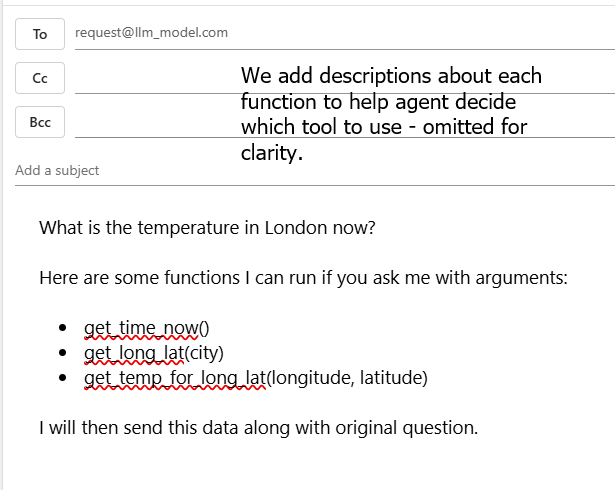
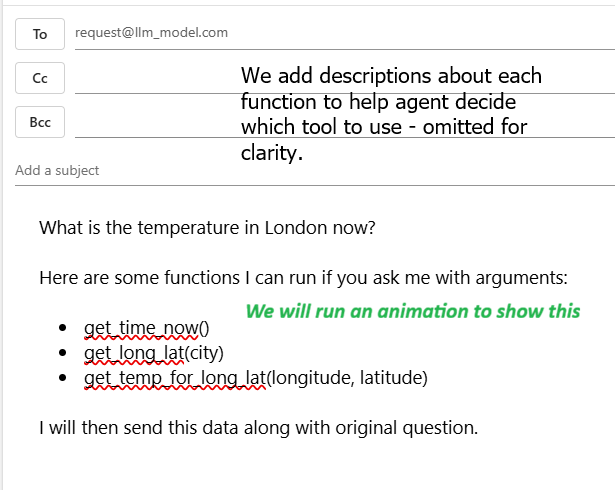
add to TALK

Changed region(s): [[0.4016, 0.6122, 0.9577, 0.6735]]

diff --git a/TALK.html b/TALK.html
@@ -735,7 +735,7 @@
     <span class="eyebrow">BrightonDev.ai Meetup</span>
     <h1>AI Agents<br><span class="grad">Demystified</span> and Simplified</h1>
     <p class="sub">A BrightonDev.ai Meetup talk by <span class="author"><b>Craig West</b></span></p>
-    <p class="author">All code, slides and more in the repo below.</p>
+    <h2>All code, slides and more in the repo below.</h2>
     <figure class="fig-qr">
       <img src="./qr.png" alt="QR code linking to the GitHub repo">
     </figure>
@@ -968,6 +968,20 @@
         </div>
 
       </div>
+
+      <div class="card warn">
+        <span class="warn-icon" aria-hidden="true">
+          <svg viewBox="0 0 24 24" fill="none" stroke="currentColor" stroke-width="2.1" stroke-linecap="round"
+            stroke-linejoin="round">
+            <path d="M12 3.2 21.3 19.4a1.25 1.25 0 0 1-1.08 1.87H3.78a1.25 1.25 0 0 1-1.08-1.87Z" />
+            <path d="M12 9.3v4.4" />
+            <path d="M12 17.2h.01" />
+          </svg>
+        </span>
+        <div class="warn-body">
+          <span class="tag">🚀 Demo time!</span>
+        </div>
+      </div>
     </section>
 
     <hr class="divider">
@@ -987,6 +1001,49 @@
       <p>That's liberating. It means the craft and the content of our jobs still matter. The engineering around the
         model is what makes it sing. My minimal coding agent is just a loop that runs until it finds an answer — and
         then I look back at the demo and think: everything we saw tonight was already there in miniature.</p>
+
+      <h3>The harness toolbox</h3>
+      <p>When you strip a coding agent down to its essentials, the harness only needs a handful of primitives:</p>
+
+      <div class="card"><b>read</b> — inspect a file's contents.</div>
+      <div class="card"><b>write</b> — create or overwrite a file.</div>
+      <div class="card"><b>list</b> — see what files and folders exist.</div>
+      <div class="card"><b>delete</b> — remove a file or folder.</div>
+      <div class="card"><b>bash</b> — run any shell command.</div>
+
+      <div class="card note">
+        <span class="tag">The point</span>
+        <p style="margin:0">Of those five, <strong><code>bash</code> is the only one you truly need</strong>. A shell command can read, write, list, and delete for you. The others are convenience wrappers, but <code>bash</code> subsumes them all.</p>
+      </div>
+
+      <h3>Taking the harness further</h3>
+      <p>The toolbox above is the bare minimum. If you want a production-grade harness, you bolt on more armour:</p>
+
+      <div class="card"><b>Sandboxing</b> — run <code>bash</code> inside a container, a VM, or a restricted user so an errant <code>rm -rf /</code> can't escape.</div>
+      <div class="card"><b>Git-aware checkpoints</b> — auto-commit before every edit so you can rewind if the agent paints itself into a corner.</div>
+      <div class="card"><b>File-watching &amp; linting</b> — validate every write with formatters, type-checkers, or tests before the loop continues.</div>
+      <div class="card"><b>Token-budget guardrails</b> — cap how much history you resend and summarise older turns when the context window gets tight.</div>
+      <div class="card"><b>Approval gates</b> — pause the loop before destructive operations and let a human click yes or no.</div>
+      <div class="card"><b>Multi-file context management</b> — let the agent ask for the codebase tree, pick which files matter, and open only those into context.</div>
+      <div class="card"><b>Context compaction</b> — use summaries, trimming, or compacting to shrink older conversation turns so the token budget stays flat even as the chat grows long.</div>
+      <div class="card"><b>Sliding-window summary</b> — replace the oldest messages with a running summary instead of dropping them outright; the model keeps the gist without the bloat.</div>
+
+      <p>None of these are magic. Each one is just more code wrapped around the same loop — more harness, not more model. And that is the whole game: build the loop, then harden it.</p>
+
+      <div class="card warn">
+        <span class="warn-icon" aria-hidden="true">
+          <svg viewBox="0 0 24 24" fill="none" stroke="currentColor" stroke-width="2.1" stroke-linecap="round"
+            stroke-linejoin="round">
+            <path d="M12 3.2 21.3 19.4a1.25 1.25 0 0 1-1.08 1.87H3.78a1.25 1.25 0 0 1-1.08-1.87Z" />
+            <path d="M12 9.3v4.4" />
+            <path d="M12 17.2h.01" />
+          </svg>
+        </span>
+        <div class="warn-body">
+          <span class="tag">🚀 Coding Agent Demo!</span>
+          <p style="margin:0">I have a minimal coding-agent running locally. It is the smallest harness I could build — and with these ideas, it edits real files, runs real tests, and recovers from real mistakes. Time to see the loop in action.</p>
+        </div>
+      </div>
     </section>
 
     <hr class="divider">
